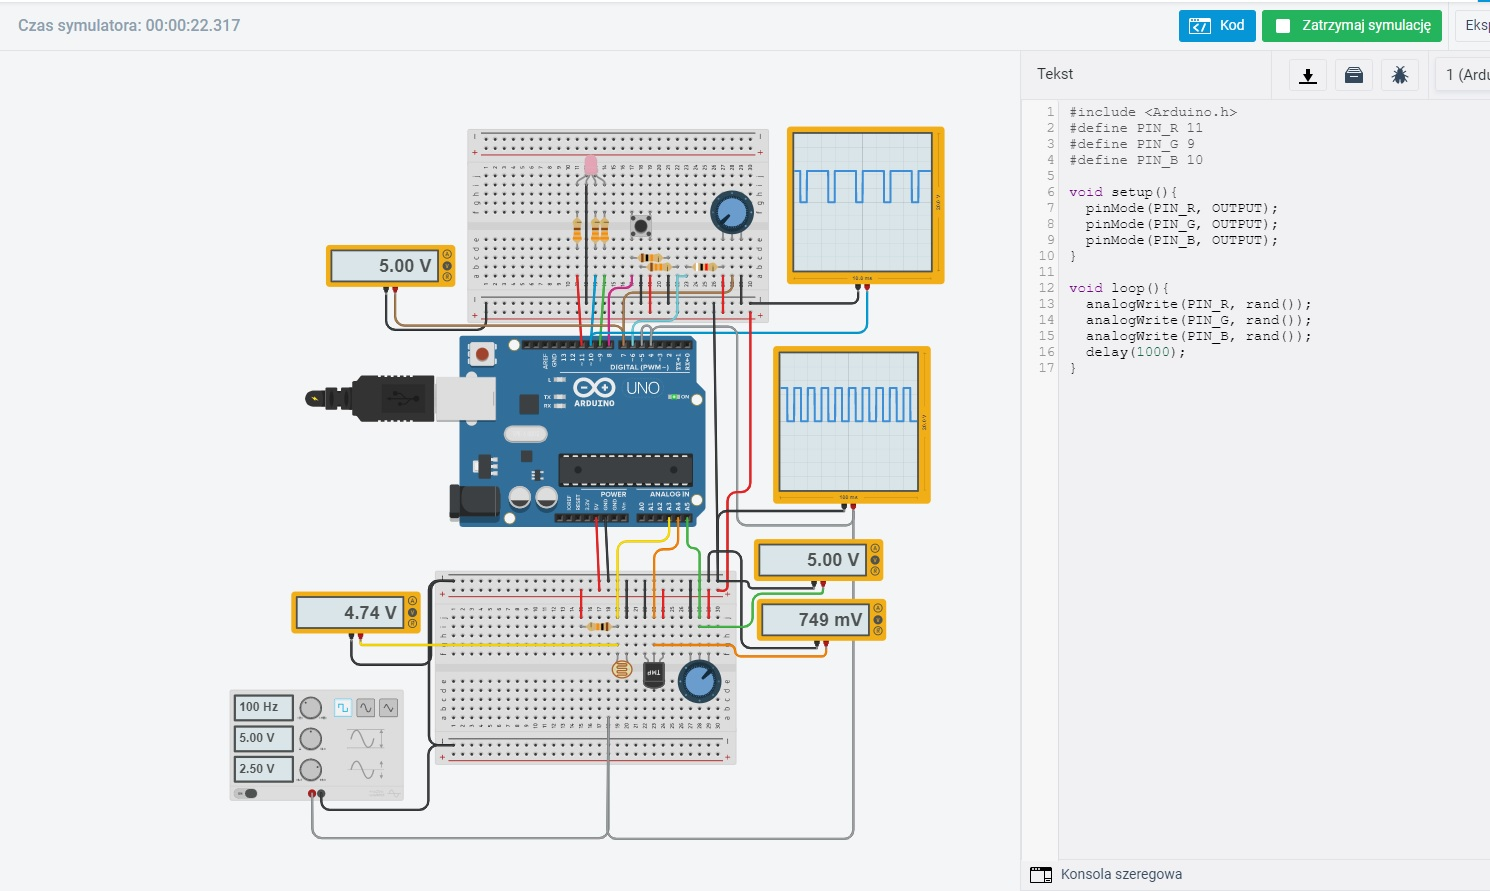
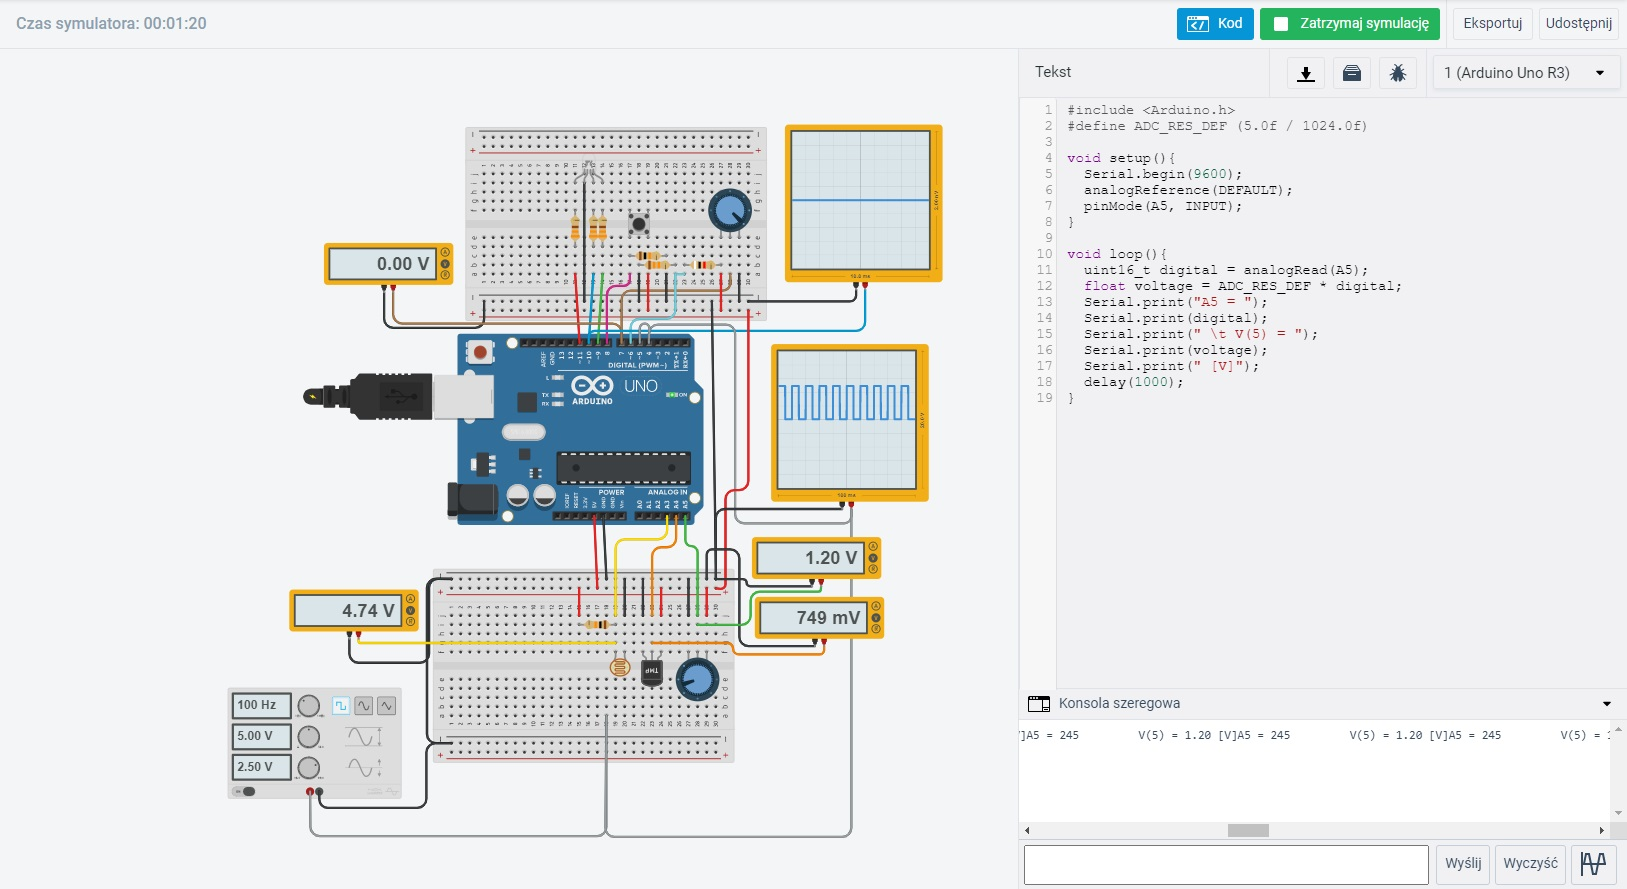
Wykonano zadanie 3.3.1 – analogRead oraz poprawione opisy screenów

diff --git a/Zadanie-3-3/src/main.cpp b/Zadanie-3-3/src/main.cpp
@@ -1,9 +1,19 @@
 #include <Arduino.h>
+#define ADC_RES_DEF (5.0f / 1024.0f)
 
-void setup() {
-  // put your setup code here, to run once:
+void setup(){
+  Serial.begin(9600);
+  analogReference(DEFAULT);
+  pinMode(A5, INPUT);
 }
 
-void loop() {
-  // put your main code here, to run repeatedly:
+void loop(){
+  uint16_t digital = analogRead(A5);
+  float voltage = ADC_RES_DEF * digital;
+  Serial.print("A5 = ");
+  Serial.print(digital);
+  Serial.print(" \t V(5) = ");
+  Serial.print(voltage);
+  Serial.print(" [V]");
+  delay(1000);
 }
